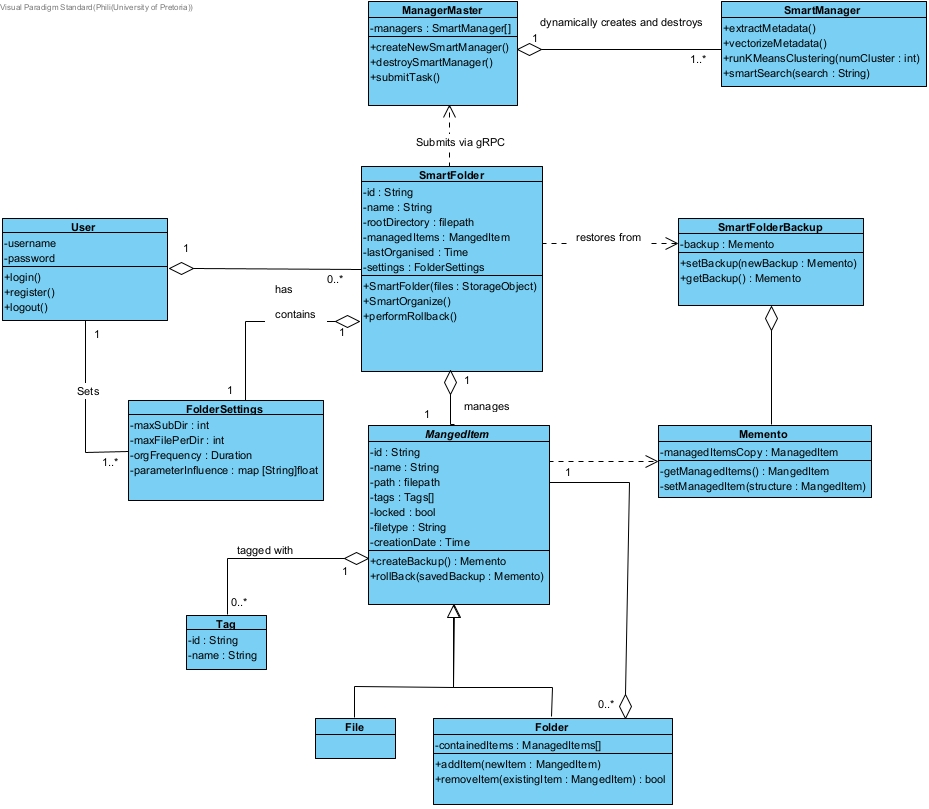
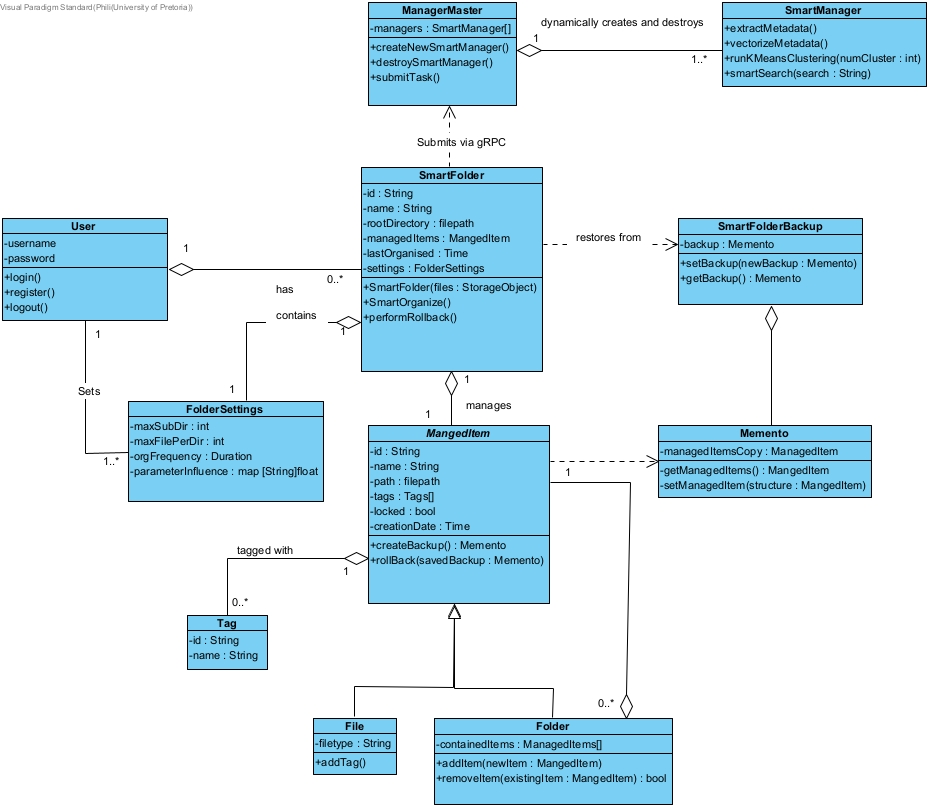
Added initial user stories to srs without relations to use cases

diff --git a/Documentation/srs.md b/Documentation/srs.md
@@ -38,6 +38,162 @@ SFM is not just another tool, it's your new digital housekeeper, your AI file fi
 
 ## User Stories / User Characteristics
 
+### 1. User Story: Register on portal
+**As a:** New user.     
+**I want to:** Register for an account using either the web portal or after downloading the app.    
+**So that I:** I can log in an sync all my preferences across multiple devices.    
+#### Acceptance criteria:
+__Given__ I am a new user.  
+__When__ I navigate to either the web portal registraton page or choose register on the application.  
+__Then__ My account is created and I should be notified that it took place successfully.   
+
+### 2. User Story: Download the Application
+**As a:** New or registered user.   
+**I want to:** Download the SFM app on to my device.   
+**So that I:** Can install the application.   
+#### Acceptance criteria:
+__Given__ I have access to the SFM portal.  
+__When__ I click the correct download button for my platform (Windows /macOS / linux).   
+__Then__ The application files are downloaded to my system.   
+
+### 3. User Story: Log into the application
+**As a:** Registered User.     
+**I want to:** Log in on any device with the application installed.   
+**So that I:** The application uses all my preferences like themes and naming conventions.   
+#### Acceptance criteria:
+__Given__ I am a registered user.   
+__When__ I enter my information and click log in.   
+__Then__ My details are authenticated and I am navigated to the application dashboard. 
+
+### 4. User Story: Create a smart manager
+**As a:** Registered User.     
+**I want to:** Create a smart manager from a given folder root.   
+**So that I:** Have all contained files automatically organized for me.  
+#### Acceptance criteria:
+__Given__ I have installed the application.   
+__When__ I click on create new smart manager.   
+__Then__ I am prompted for the root directory and a smart manager is created which sorts all the content by its semantic meaning.   
+
+
+### 5. User Story: Configure sorting preferences
+**As a:** User.  
+**I want to:** Configure how and when smart folders are sorted.   
+**So that I:** Have predictability and control over how and when my folders are sorted.   
+#### Acceptance criteria:
+__Given__ I have installed the application.  
+__When__ I open the settings and configure rules for sorting and sorting timers.   
+__Then__ My settings are saved and applied for future sorting.  
+
+### 6. User Story: Tag files manually 
+**As a:** User  
+**I want to:** Associate tags that I defined with certain files.   
+**So that I:** They may influence how the files are sorted and be used for sorting by tags.   
+#### Acceptance criteria:
+__Given__ The application is installed and a smart manager created.  
+__When__ I open the settings and configure rules for sorting and sorting timers.   
+__Then__ My settings are saved and applied for future sorting.  
+
+
+### 7. User Story: Auto-sort files
+**As a:** Smart Folder.  
+**I want to:** Automatically sort folders and files at a regular interval.   
+**So that I:** Keep directories organized without human intervention.   
+#### Acceptance criteria:
+__Given__ Files exist in a monitored directory and user preferences are set.   
+__When__ The timer for sorting expires.   
+__Then__ Files are moved to a more appropriate directory by the AI sorter.  
+
+### 8. User Story: Graph File organization visualization
+**As a:** User.  
+**I want to:** See how my files are organized via an intuitive mind-map / graph view.     
+**So that I:** May more naturally traverse through my files and interact with them.   
+#### Acceptance criteria:
+__Given__ I have created a smart manager which contains content.   
+__When__ I click on graph view.   
+__Then__ I see an interactive graph of my files and folders. 
+
+### 9. User Story: Traditional File organization visualization
+**As a:** User.  
+**I want to:** See how my files are organized via traditional folder viewer.     
+**So that I:** May traverse and interact with files in a well-know manner. 
+#### Acceptance criteria:
+__Given__ I have created a smart manager which contains content.   
+__When__ I click on folder view.   
+__Then__ I can traverse through the folder structure by clicking on folders.   
+
+### 10. User Story: Trigger Manual Sort 
+**As a:** User.  
+**I want to:** Manually initiate a file sorting process.   
+**So that I:** The system begins sorting immediately.   
+#### Acceptance criteria:
+__Given__ The application is installed and settings configured.   
+__When__ I click on Sort Now on a smart mananger.     
+__Then__ The system initiates a reorganization of the smart manager.  
+
+### 11. User Story: Lock files and folders
+**As a:** User.  
+**I want to:** Lock specific files and folders.  
+**So that I:** Prevent them from being moved or sorted during organization.  
+#### Acceptance criteria:
+__Given__ I have a smart manager with content.   
+__When__ I select a file or folder and click the lock button.   
+__Then__ The item is excluded from future organization operations.  
+
+### 12. User Story: Search files, tags or metadata
+**As a:** User.  
+**I want to:** Search for files using names, tags or metadata.   
+**So that I:** Can quickly find relevant content. 
+#### Acceptance criteria:
+__Given__ My files are sorted in a smart manager.   
+__When__ I enter a search query in the search bar.   
+__Then__ A list of files matching the criteria is returned.  
+
+### 13. User Story: Search files, tags or metadata
+**As a:** User.  
+**I want to:** Search for files using names, tags or metadata.   
+**So that I:** Can quickly find relevant content. 
+#### Acceptance criteria:
+__Given__ My files are sorted in a smart manager.   
+__When__ I enter a search query in the search bar.   
+__Then__ A list of files matching the criteria is returned. 
+
+### 14. User Story: Rollback sorting changes
+**As a:** User.  
+**I want to:** Undo the last sorting operation.     
+**So that I:** Restore my organization to what is was before the last sort.   
+#### Acceptance criteria:
+__Given__ I have performed a smart organization. 
+__When__ Click on the rollback button for a smart manager.      
+__Then__ All files are returned to their exact previous location.   
+
+### 15. User Story: Add a new file or folder.  
+**As a:** User.  
+**I want to:** Create a new file or folder at some location in my smart manager.   
+**So that I:** Interact with my filesystem via SFM.   
+#### Acceptance criteria:
+__Given__ I have a smart manager.  
+__When__  I click to create a new file or folder.  
+__Then__ The new item is added to the smart manager but not yet sorted.  
+
+### 16. User Story: Stay logged in.  
+**As a:** User.  
+**I want to:** Remained logged in after restarting the app.   
+**So that I:** Don't have to log in every time I open the app.   
+#### Acceptance criteria:
+__Given__ I have logged in and did not log out.   
+__When__  I reopen the app.   
+__Then__ I am automatically still logged in.  
+
+### 16. User Story: Customize smart sort behaviour.  
+**As a:** Advanced User.    
+**I want to:** Set the influence of tags, metadata and other criteria on the sorting AI>  
+**So that I:** Have fine control over the system.   
+#### Acceptance criteria:
+__Given__ Advanced customization options are set.   
+__When__ I adjust my customization options.   
+__Then__ The changes influence future sorting.  
+
+
 ## Use cases / Use Case Diagram
 | Use Case                              | Actor | Abstract                                                                                                             | Preconditions                             | Postconditions                           |
 | ------------------------------------- | ----- | -------------------------------------------------------------------------------------------------------------------- | ----------------------------------------- | ---------------------------------------- |

diff --git a/README.md b/README.md
@@ -50,10 +50,10 @@
 
 | Photo                                                                           | Name & Role                                               | LinkedIn                                                                                                                                                                                                                          |
 | ------------------------------------------------------------------------------- | --------------------------------------------------------- | --------------------------------------------------------------------------------------------------------------------------------------------------------------------------------------------------------------------------------- |
-| ![Jack](images/jack.jpg)                                                        | **Jack Bawden**<br>Golang & Python                        | [![LinkedIn](https://img.shields.io/static/v1?label=LinkedIn\&message=Jack+Bawden\&color=0077B5\&logo=linkedin\&style=flat-square)](https://www.linkedin.com/in/jack-bawden/)                                                     |
-| <img src="Documentation/assets/readmeAssets/philipp.jpg" width=100% height=300> | **Philipp du Plessis**<br>Golang & Python                 | [![LinkedIn](https://img.shields.io/static/v1?label=LinkedIn\&message=Philipp+duPlessis\&color=0077B5\&logo=linkedin\&style=flat-square)](https://www.linkedin.com/in/https://www.linkedin.com/in/philipp-du-plessis-56974b30a//) |
+| <img src="Documentation/assets/readmeAssets/Jack.jpg" width=100% height=300>    | **Jack Bawden**<br>`Golang & Python `                       | [![LinkedIn](https://img.shields.io/static/v1?label=LinkedIn\&message=Jack+Bawden\&color=0077B5\&logo=linkedin\&style=flat-square)](https://www.linkedin.com/in/jack-bawden/)                                                     |
+| <img src="Documentation/assets/readmeAssets/philipp.jpg" width=100% height=300> | **Philipp du Plessis**<br>`Golang & Python`                 | [![LinkedIn](https://img.shields.io/static/v1?label=LinkedIn\&message=Philipp+duPlessis\&color=0077B5\&logo=linkedin\&style=flat-square)](https://www.linkedin.com/in/https://www.linkedin.com/in/philipp-du-plessis-56974b30a//) |
 | <img src="Documentation/assets/readmeAssets/tiaan.jpeg" width=100% height=300>  | **Tiaan Bosman**<br>UX & UI Developer<br>`Flutter & Dart` | [![LinkedIn](https://img.shields.io/static/v1?label=LinkedIn\&message=Tiaan+Bosman\&color=0077B5\&logo=linkedin\&style=flat-square)](https://www.linkedin.com/in/tiaan-bosman-764083220/)                                         |
-| <img src="Documentation/assets/readmeAssets/Henco.jpg" width=100% height=300> | **Henco Pretorius**<br>Golang & Python<br>          | [![LinkedIn](https://img.shields.io/static/v1?label=LinkedIn\&message=Henco+Pretorius\&color=0077B5\&logo=linkedin\&style=flat-square)](www.linkedin.com/in/henco-pretorius-477939228)                                                       |
+| <img src="Documentation/assets/readmeAssets/Henco.jpg" width=100% height=300> | **Henco Pretorius**<br>`Golang & Python`<br>          | [![LinkedIn](https://img.shields.io/static/v1?label=LinkedIn\&message=Henco+Pretorius\&color=0077B5\&logo=linkedin\&style=flat-square)](www.linkedin.com/in/henco-pretorius-477939228)                                                       |
 | <img src="Documentation/assets/readmeAssets/dewald.JPG" width=100% height=300> | **Dewald Colesky**<br>Backend Legend<br>`Golang & Python`       | [![LinkedIn](https://img.shields.io/static/v1?label=LinkedIn\&message=Dewald+Colesky\&color=0077B5\&logo=linkedin\&style=flat-square)](https://www.linkedin.com/in/dewald-colesky-165400217/)                                                 |
 
 # Tooling and Automation
